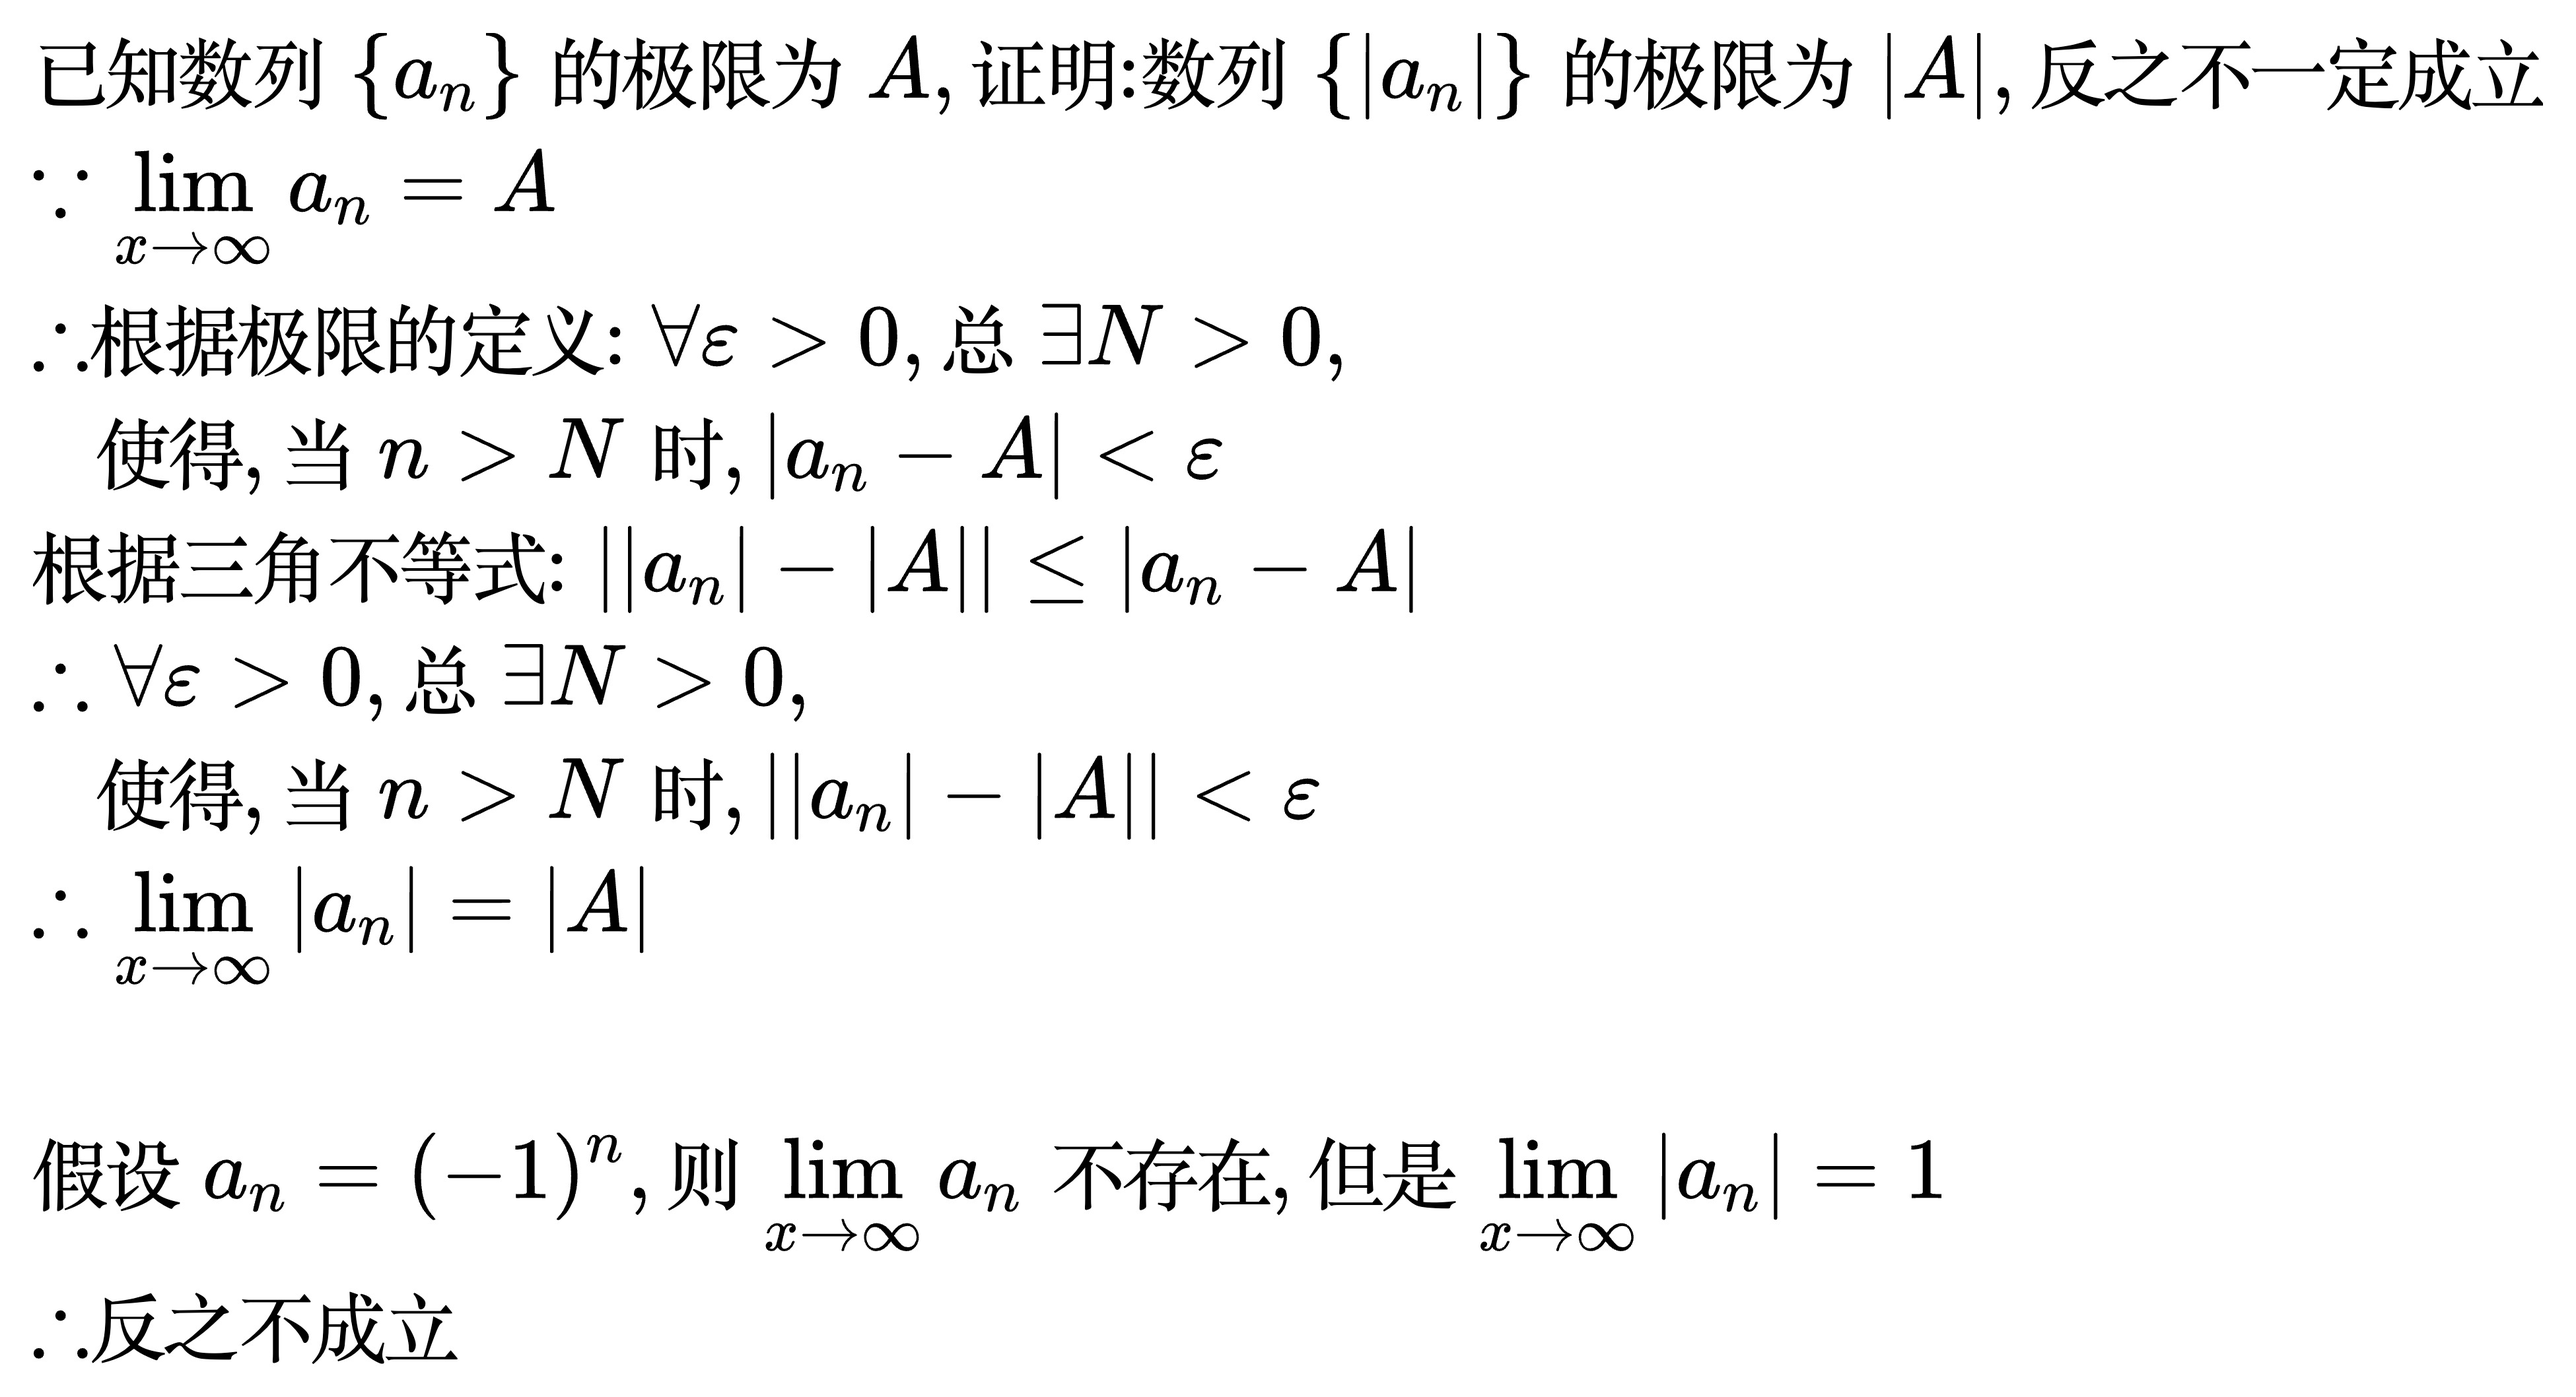
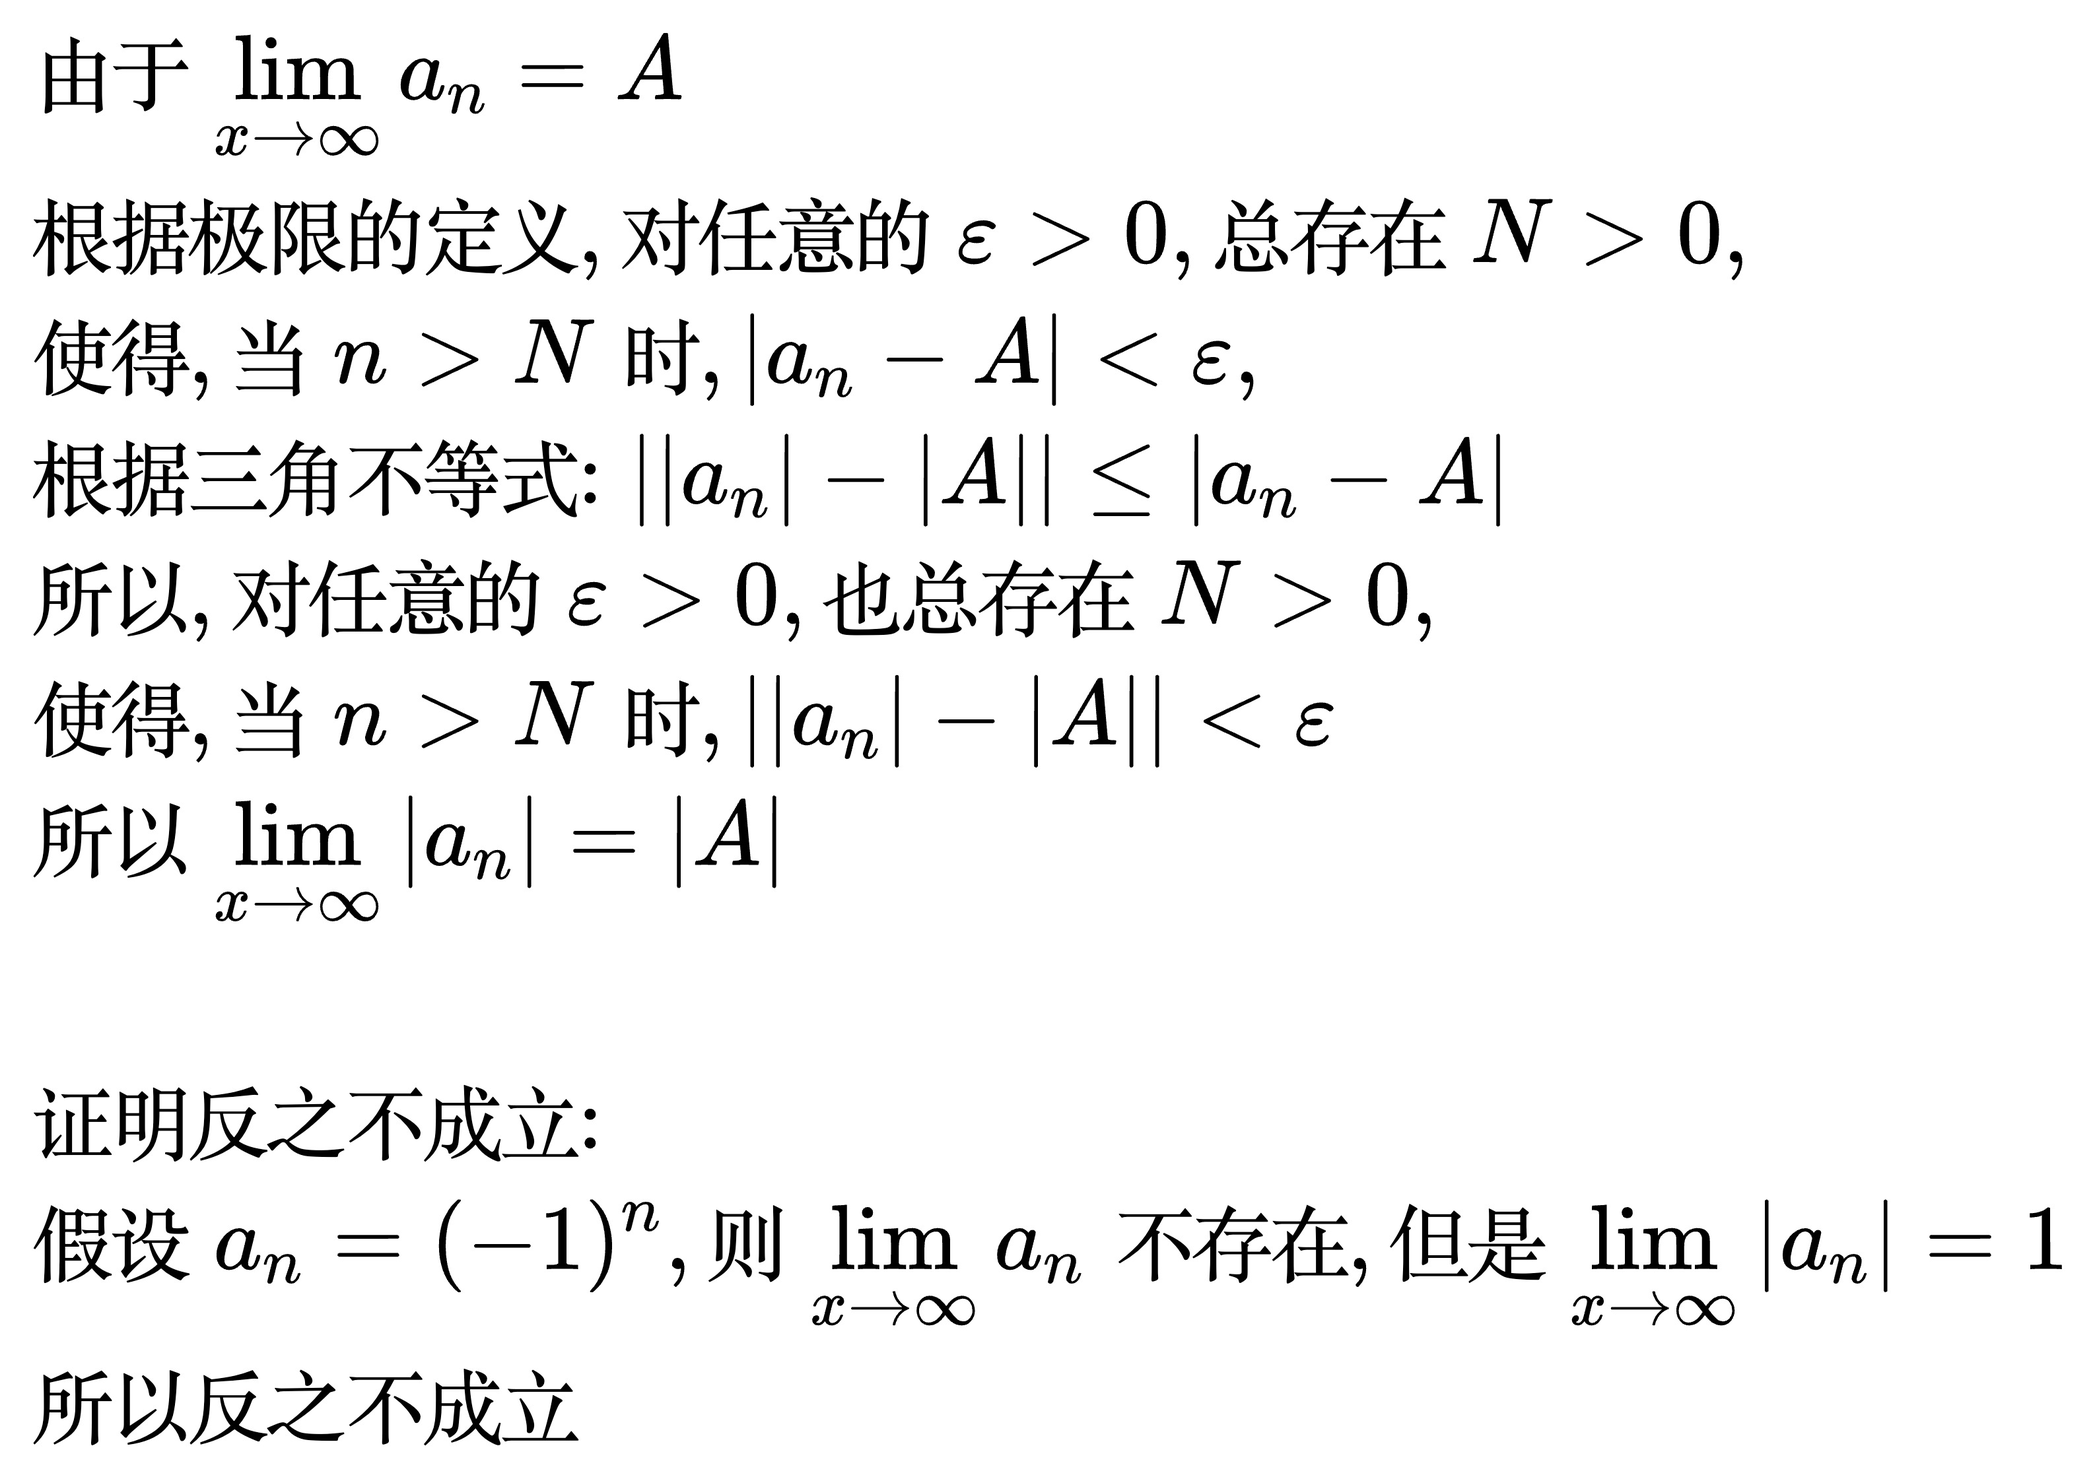
1

diff --git a/base/math/src/further_mathematics/limit.md b/base/math/src/further_mathematics/limit.md
@@ -16,19 +16,33 @@
 
 ![](../img/lim1.jpg)
 
+推论:
+
 <!--
 \begin{align}
-& 已知数列 \left \{ a_{n} \right \} 的极限为A, 证明: 数列 \left \{ |a_{n}| \right \} 的极限为 |A|, 反之不一定成立 \\
-&\because \lim_{x \to \infty} a_{n} = A \\
-& \therefore 根据极限的定义: \forall \varepsilon  \gt 0, 总 \exists N \gt 0, \\
-& \;\;\, 使得, 当 n \gt N 时, |a_{n} - A| \lt \varepsilon \\
+& 已知数列 \left \{ a_{n} \right \} 的极限: \lim_{n \to \infty} a_{n} = A, \\
+& 则数列 \left \{ |a_{n}| \right \} 的极限为: \lim_{n \to \infty} |a_{n}| = |A|, \\
+& 反之不一定成立 \\
+\end{align}
+-->
+
+![](../img/lim1_1.jpg)
+
+证明:
+
+<!--
+\begin{align}
+& 由于\lim_{x \to \infty} a_{n} = A \\
+& 根据极限的定义, 对任意的 \varepsilon \gt 0, 总存在 N \gt 0, \\
+& 使得, 当 n \gt N 时, |a_{n} - A| \lt \varepsilon, \\
 & 根据三角不等式: ||a_{n}| - |A|| \le |a_{n} - A| \\
-& \therefore \forall \varepsilon  \gt 0, 总 \exists N \gt 0, \\
-& \;\;\, 使得, 当 n \gt N 时, ||a_{n}| - |A|| \lt \varepsilon \\
-& \therefore \lim_{x \to \infty} |a_{n}| = |A| \\
+& 所以, 对任意的 \varepsilon  \gt 0, 也总存在 N \gt 0, \\
+& 使得, 当 n \gt N 时, ||a_{n}| - |A|| \lt \varepsilon \\
+& 所以 \lim_{x \to \infty} |a_{n}| = |A| \\
 \\
+& 证明反之不成立: \\
 & 假设 a_{n} = (-1)^{n}, 则 \lim_{x \to \infty} a_{n} 不存在, 但是 \lim_{x \to \infty} |a_{n}| = 1 \\
-& \therefore 反之不成立 \\
+& 所以反之不成立 \\
 \end{align}
 -->
 
@@ -36,7 +50,7 @@
 
 ## 函数的极限
 
-x 接近一个点时的极限:
+### x 接近某一个点时的极限
 
 <!--
 \begin{align}
@@ -49,6 +63,8 @@ x 接近一个点时的极限:
 -->
 
 ![](../img/lim3.jpg)
+
+例题:
 
 <!--
 \begin{align}
@@ -63,7 +79,7 @@ x 接近一个点时的极限:
 
 ![](../img/lim4.jpg)
 
-x 接近无穷时的极限:
+### x 接近无穷时的极限
 
 <!--
 \begin{align}
@@ -117,6 +133,8 @@ x 接近无穷时的极限:
 -->
 
 ![](../img/lim7.jpg)
+
+例题:
 
 <!--
 \begin{align}

diff --git a/base/math/src/further_mathematics/limit_attribute.md b/base/math/src/further_mathematics/limit_attribute.md
@@ -27,3 +27,63 @@
 -->
 
 ![](../img/la1.jpg)
+
+## 有界性
+
+如果数列的极限存在，那么这个数列一定是有界, 反之不对。
+
+## 保号性
+
+如果一个函数在某一点的极限是正数或负数，那么在这一点的一个小邻域内，函数值的符号与极限的符号相同。
+
+<!--
+\begin{align}
+& 如果函数存在非0的极限 \lim_{x \to a} f(x) = A \\
+& (1) 如果 A \gt 0, 则存在 \delta \gt 0, 当 0 \lt |x - a| \lt \delta 时, 有 f(x) \gt 0 \\
+& (2) 如果 A \lt 0, 则存在 \delta \gt 0, 当 0 \lt |x - a| \lt \delta 时, 有 f(x) \lt 0 \\
+\end{align}
+-->
+
+![](../img/la2.jpg)
+
+证明:
+
+<!--
+\begin{align}
+& \lim_{x \to a} f(x) = A \\
+\\
+& 若 A \gt 0 \\
+& 取 \varepsilon = \frac{A}{2} \gt 0, 根据极限的定义, 存在 \delta \gt 0, \\
+& 当 0 \lt |x - a| \lt \delta 时, |f(x) - A| \lt \frac{A}{2}, \\
+& 从而有 \frac{A}{2} \lt f(x) \lt \frac{3A}{2}, 所以 f(x) \gt 0 \\
+\\
+& 若 A \lt 0 \\
+& 取 \varepsilon = -\frac{A}{2} \gt 0, 根据极限的定义, 存在 \delta \gt 0, \\
+& 当 0 \lt |x - a| \lt \delta 时, |f(x) - A| \lt -\frac{A}{2}, \\
+& 从而有 -\frac{3A}{2} \lt f(x) \lt \frac{A}{2}, 所以 f(x) \lt 0 \\
+\end{align}
+-->
+
+![](../img/la3.jpg)
+
+推论 1:
+
+<!--
+\begin{align}
+& 若 f(x) \gt 0 且 \lim_{x \to a} f(x) = A \\
+& 则 A \ge 0 \\
+\end{align}
+-->
+
+![](../img/la4.jpg)
+
+推论 2:
+
+<!--
+\begin{align}
+& 若 f(x) \gt g(x) 且 \lim_{x \to a} f(x) = A, \lim_{x \to a} g(x) = B \\
+& 则 A \ge B \\
+\end{align}
+-->
+
+![](../img/la5.jpg)

diff --git a/base/math/src/base/inequality.md b/base/math/src/base/inequality.md
@@ -15,3 +15,26 @@
 \end{align} -->
 
 ![](../img/ie2.jpg)
+
+<!--
+\begin{align}
+& |x - a| \lt b \Rightarrow a - b \lt x \lt a + b \\
+\\
+& 求解过程: \\
+& \;\;\;\;\;\,\begin{cases}
+x - a \lt b, & x \gt a \\
+a - x \lt b, & x \lt a
+\end{cases} \\
+& \Rightarrow \begin{cases}
+x \lt a + b, & x \gt a \\
+-x \lt b - a, & x \lt a
+\end{cases} \\
+& \Rightarrow \begin{cases}
+x \lt a + b, & x \gt a \\
+x \gt a - b, & x \lt a
+\end{cases} \\
+& \Rightarrow a - b \lt x \lt a + b
+\end{align}
+-->
+
+![](../img/ie3.jpg)
